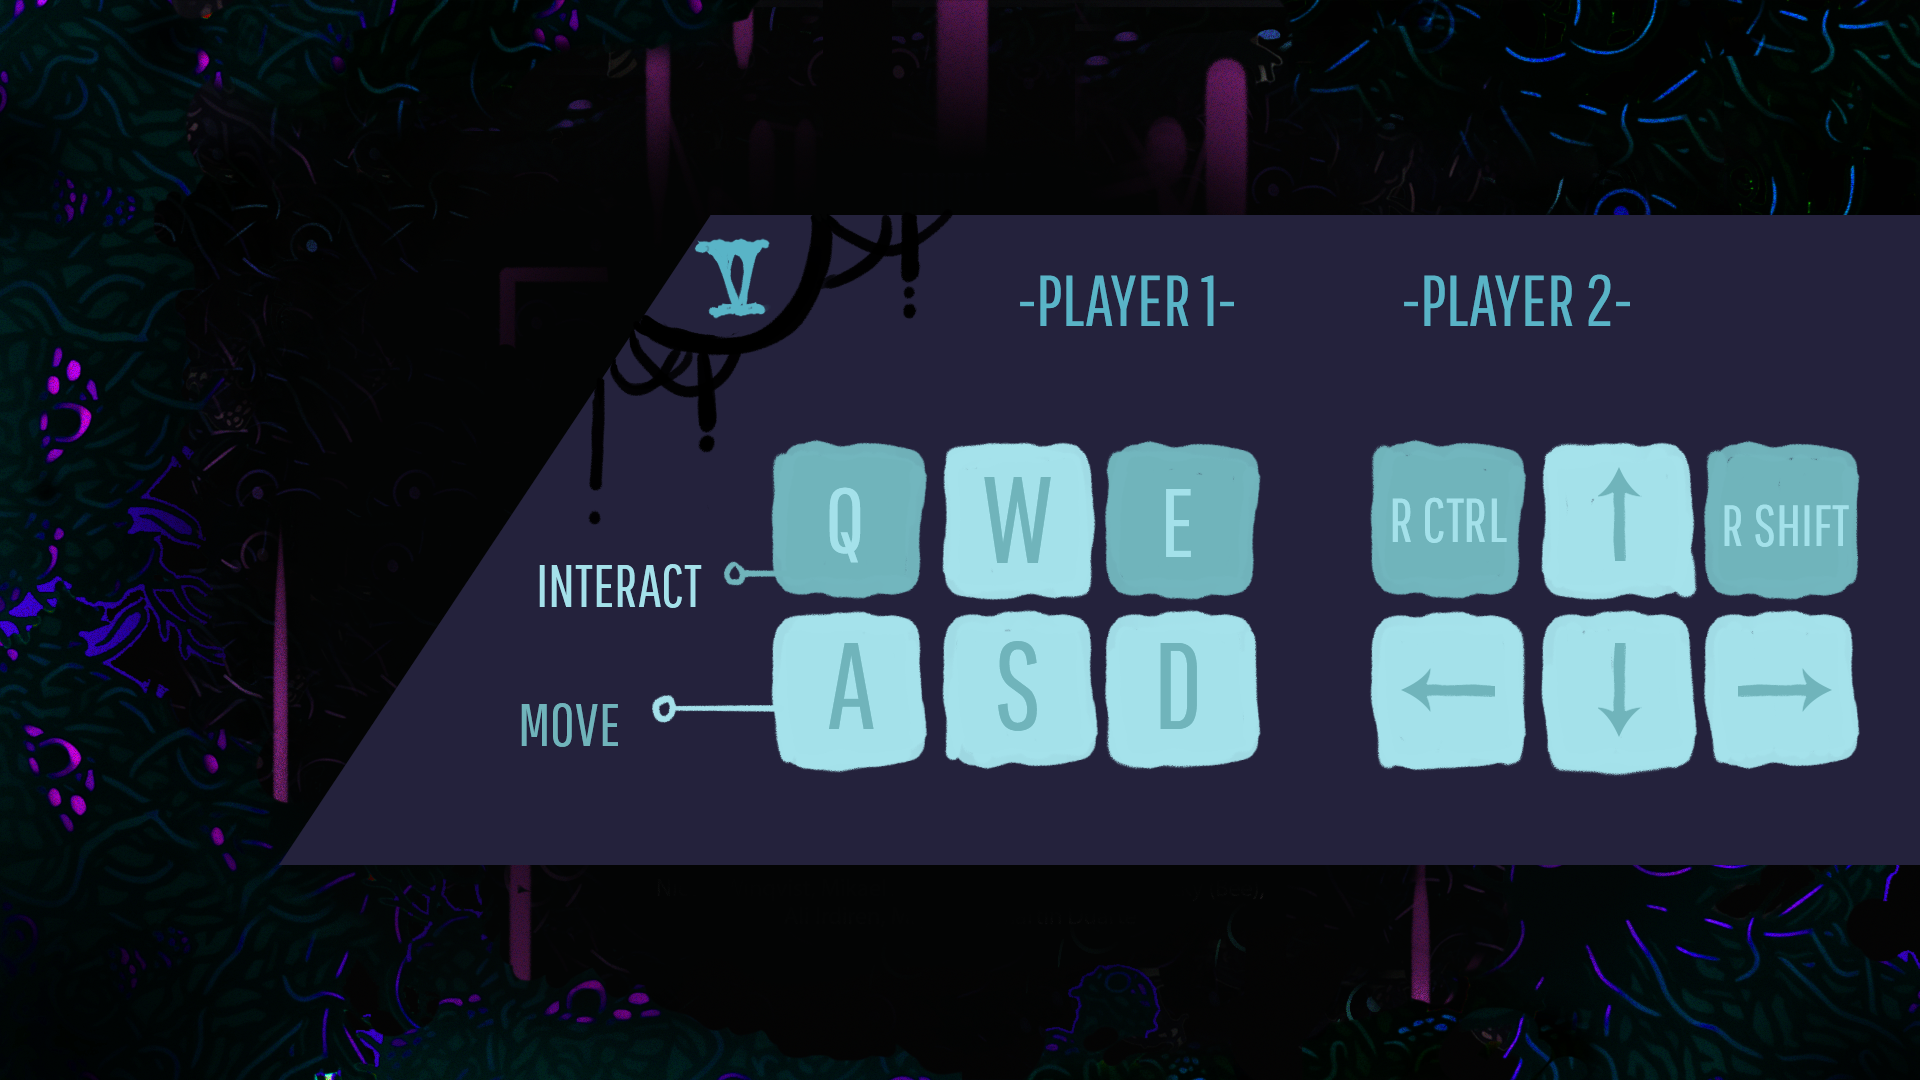
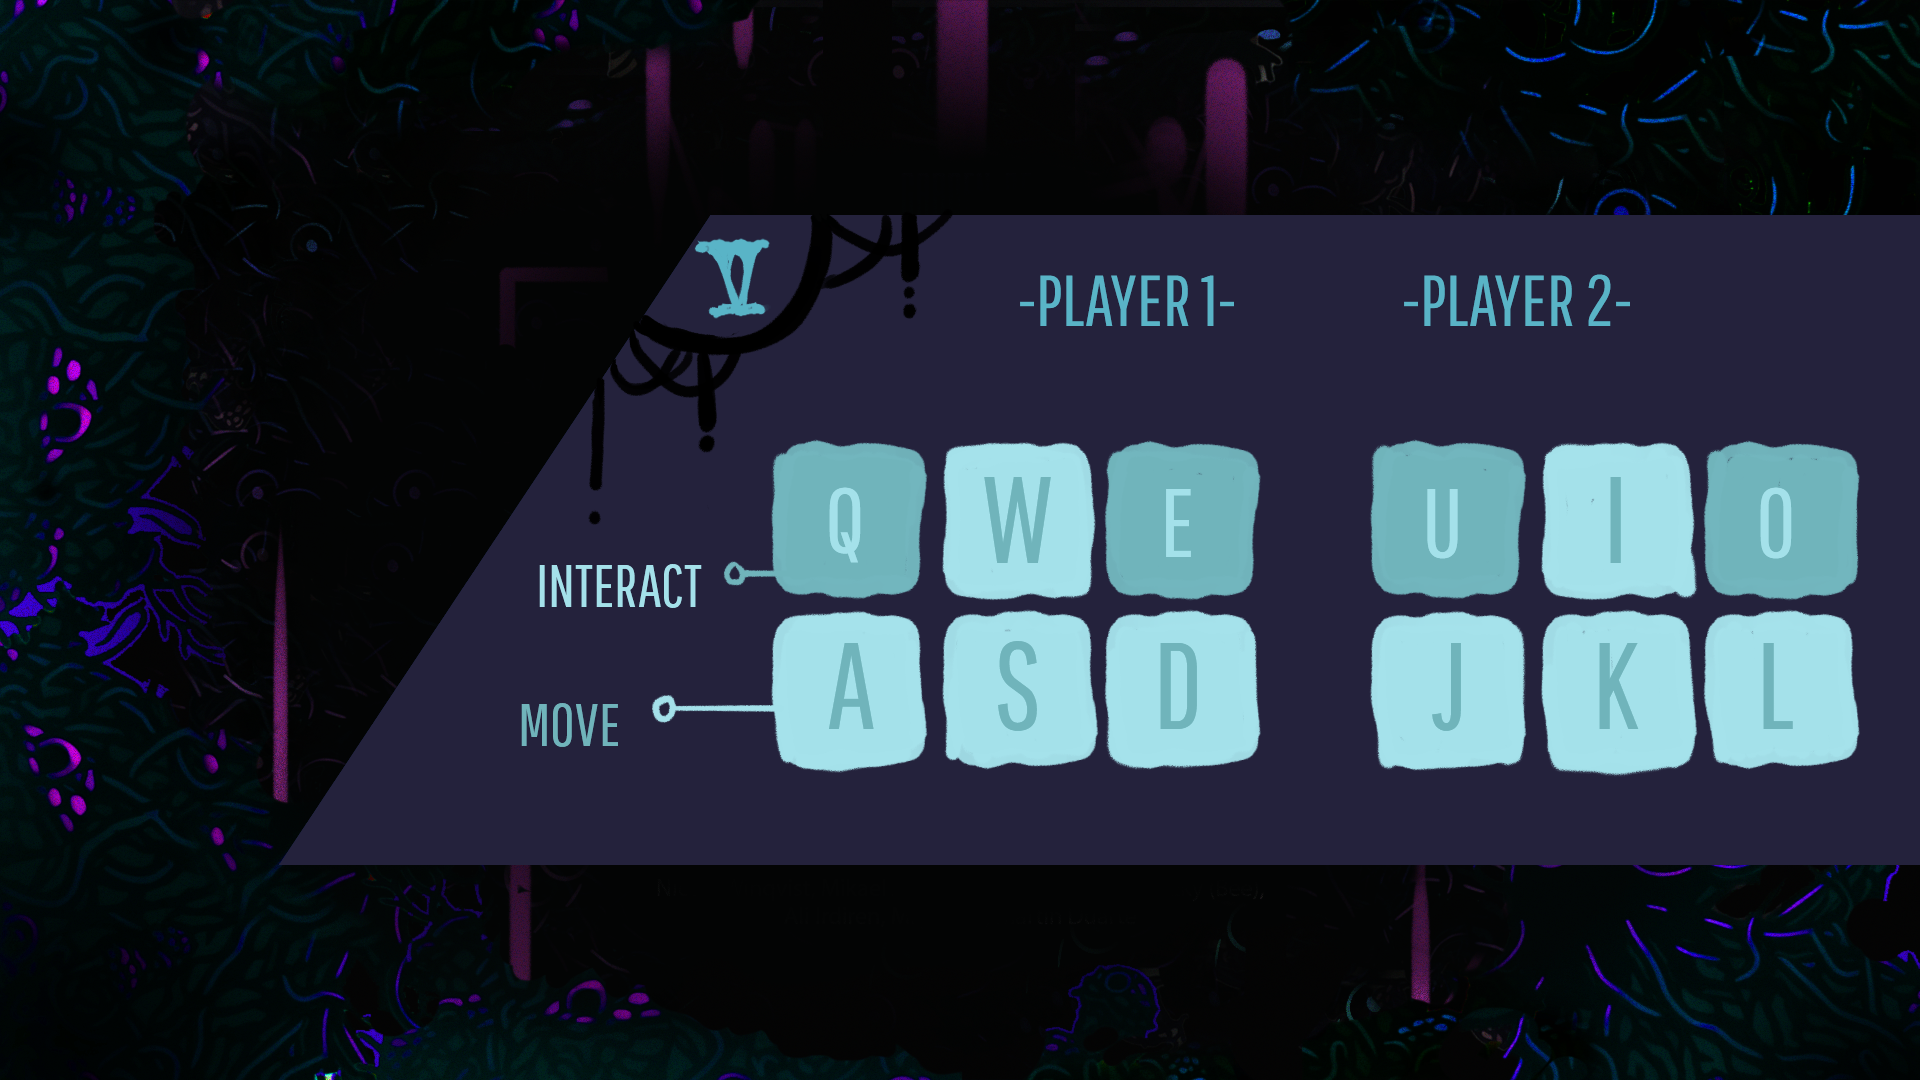
Menu updated

diff --git a/Harvest/Assets/Scripts/Statics.cs b/Harvest/Assets/Scripts/Statics.cs
@@ -16,10 +16,10 @@ public static class Statics
     public static KeyCode p1interaction = KeyCode.E;
 
     //Key Codes Player 2
-    public static KeyCode p2up = KeyCode.UpArrow;
-    public static KeyCode p2down = KeyCode.DownArrow;
-    public static KeyCode p2left = KeyCode.LeftArrow;
-    public static KeyCode p2right = KeyCode.RightArrow;
-    public static KeyCode p2inventory = KeyCode.RightShift;
-    public static KeyCode p2interaction = KeyCode.RightControl;
+    public static KeyCode p2up = KeyCode.I;
+    public static KeyCode p2down = KeyCode.K;
+    public static KeyCode p2left = KeyCode.J;
+    public static KeyCode p2right = KeyCode.L;
+    public static KeyCode p2inventory = KeyCode.U;
+    public static KeyCode p2interaction = KeyCode.O;
 }

diff --git a/Harvest/Assets/Scripts/GameManager/EndGame.cs b/Harvest/Assets/Scripts/GameManager/EndGame.cs
@@ -24,6 +24,14 @@ public class EndGame : MonoBehaviour
     public void EndEverything()
     {
         //TODO stop game
+        StartCoroutine(End());
+    }
+
+    IEnumerator End()
+    {
+        //TODO stop everything
+
+        yield return new WaitForSeconds(3f);
         CheckWhoWon();
         endImage.GetComponent<Image>().sprite = spriteNow;
         endImage.SetActive(true);

diff --git a/Harvest/Assets/MenuStuff/MainMenu.cs b/Harvest/Assets/MenuStuff/MainMenu.cs
@@ -80,7 +80,11 @@ public class MainMenu : MonoBehaviour
     // Start is called before the first frame update
     public void ExitGame()
     {
-        Application.Quit();
+        #if (UNITY_STANDALONE)
+            Application.Quit();
+        #elif (UNITY_WEBGL)
+            Application.OpenURL("about:blank");
+        #endif
     }
 
     // Update is called once per frame
